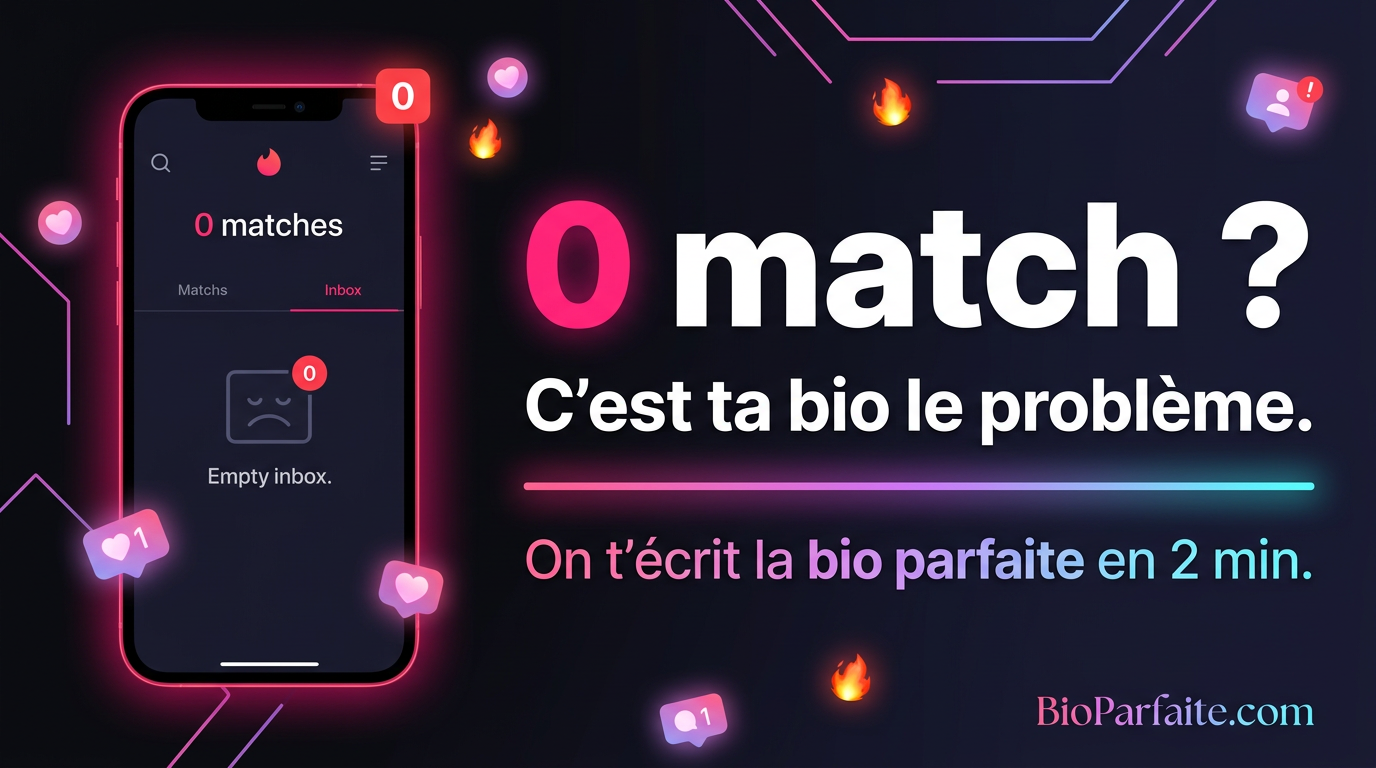
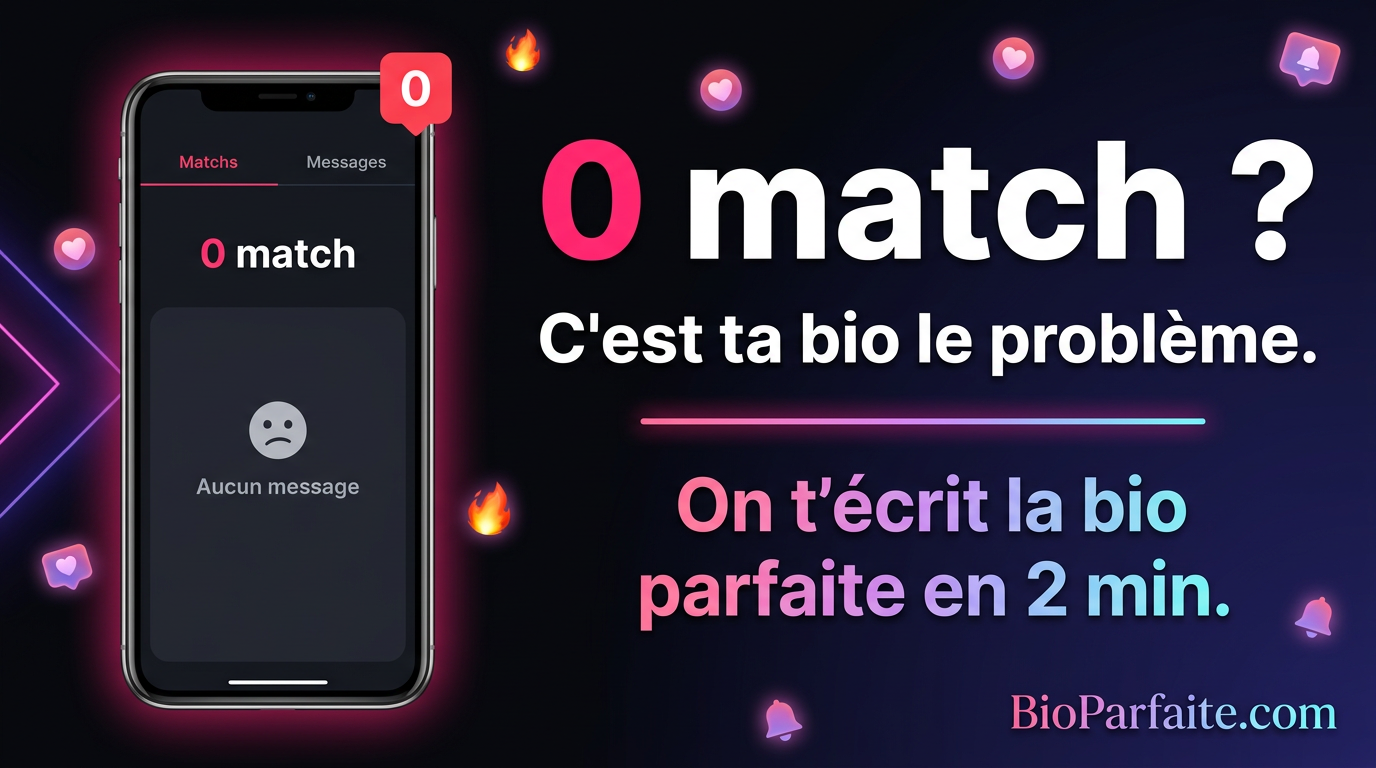
Image OG + messages de partage generalistes (aucune mention d'appli specifique)
Made-with: Cursor

diff --git a/merci.html b/merci.html
@@ -155,7 +155,7 @@
                         <div class="w-8 h-8 shrink-0 rounded-full bg-neon-blue/20 flex items-center justify-center text-sm font-bold text-neon-blue">3</div>
                         <div>
                             <p class="text-white font-semibold text-sm">Colle-la sur ton appli</p>
-                            <p class="text-gray-400 text-sm mt-1">Tinder, Bumble, Hinge, Happn, Fruitz, Badoo... Ta nouvelle bio va faire la différence.</p>
+                            <p class="text-gray-400 text-sm mt-1">Peu importe ton appli de rencontre, ta nouvelle bio va faire la différence.</p>
                         </div>
                     </div>
                 </div>
@@ -173,12 +173,12 @@
                 <p class="text-gray-500 text-xs mb-4">Le message est déjà écrit, t'as juste à cliquer</p>
                 <div class="grid grid-cols-2 sm:grid-cols-3 gap-2.5 mb-4">
 
-                    <a href="https://wa.me/?text=Hey%20!%20J%27ai%20d%C3%A9couvert%20un%20site%20qui%20cr%C3%A9e%20des%20bios%20Tinder%20sur-mesure%2C%20jette%20un%20coup%20d%27oeil%20%C3%A7a%20pourrait%20t%27int%C3%A9resser%20%F0%9F%91%80%20https%3A%2F%2Fbioparfaite.com" target="_blank" rel="noopener" class="inline-flex items-center justify-center gap-2 px-3 py-2.5 rounded-xl bg-green-600/15 border border-green-500/25 text-green-400 hover:bg-green-600/25 text-xs sm:text-sm font-semibold transition-colors">
+                    <a href="https://wa.me/?text=Hey%20!%20J%27ai%20d%C3%A9couvert%20un%20site%20qui%20cr%C3%A9e%20des%20bios%20de%20rencontre%20sur-mesure%2C%20jette%20un%20coup%20d%27oeil%20%C3%A7a%20pourrait%20t%27int%C3%A9resser%20%F0%9F%91%80%20https%3A%2F%2Fbioparfaite.com" target="_blank" rel="noopener" class="inline-flex items-center justify-center gap-2 px-3 py-2.5 rounded-xl bg-green-600/15 border border-green-500/25 text-green-400 hover:bg-green-600/25 text-xs sm:text-sm font-semibold transition-colors">
                         <svg class="w-4 h-4 shrink-0" fill="currentColor" viewBox="0 0 24 24"><path d="M17.472 14.382c-.297-.149-1.758-.867-2.03-.967-.273-.099-.471-.148-.67.15-.197.297-.767.966-.94 1.164-.173.199-.347.223-.644.075-.297-.15-1.255-.463-2.39-1.475-.883-.788-1.48-1.761-1.653-2.059-.173-.297-.018-.458.13-.606.134-.133.298-.347.446-.52.149-.174.198-.298.298-.497.099-.198.05-.371-.025-.52-.075-.149-.669-1.612-.916-2.207-.242-.579-.487-.5-.669-.51-.173-.008-.371-.01-.57-.01-.198 0-.52.074-.792.372-.272.297-1.04 1.016-1.04 2.479 0 1.462 1.065 2.875 1.213 3.074.149.198 2.096 3.2 5.077 4.487.709.306 1.262.489 1.694.625.712.227 1.36.195 1.871.118.571-.085 1.758-.719 2.006-1.413.248-.694.248-1.289.173-1.413-.074-.124-.272-.198-.57-.347z"/><path d="M12 0C5.373 0 0 5.373 0 12c0 2.625.846 5.059 2.284 7.034L.789 23.492a.5.5 0 00.611.611l4.458-1.495A11.943 11.943 0 0012 24c6.627 0 12-5.373 12-12S18.627 0 12 0zm0 22c-2.344 0-4.507-.793-6.23-2.126l-.356-.292-3.693 1.236 1.236-3.693-.292-.356A9.948 9.948 0 012 12C2 6.477 6.477 2 12 2s10 4.477 10 10-4.477 10-10 10z"/></svg>
                         WhatsApp
                     </a>
 
-                    <a href="https://www.facebook.com/sharer/sharer.php?u=https%3A%2F%2Fbioparfaite.com&quote=J%27ai%20d%C3%A9couvert%20un%20site%20qui%20cr%C3%A9e%20des%20bios%20Tinder%20sur-mesure%2C%20jette%20un%20coup%20d%27oeil%20!" target="_blank" rel="noopener" class="inline-flex items-center justify-center gap-2 px-3 py-2.5 rounded-xl bg-blue-600/15 border border-blue-500/25 text-blue-400 hover:bg-blue-600/25 text-xs sm:text-sm font-semibold transition-colors">
+                    <a href="https://www.facebook.com/sharer/sharer.php?u=https%3A%2F%2Fbioparfaite.com&quote=J%27ai%20d%C3%A9couvert%20un%20site%20qui%20cr%C3%A9e%20des%20bios%20de%20rencontre%20sur-mesure%2C%20jette%20un%20coup%20d%27oeil%20!" target="_blank" rel="noopener" class="inline-flex items-center justify-center gap-2 px-3 py-2.5 rounded-xl bg-blue-600/15 border border-blue-500/25 text-blue-400 hover:bg-blue-600/25 text-xs sm:text-sm font-semibold transition-colors">
                         <svg class="w-4 h-4 shrink-0" fill="currentColor" viewBox="0 0 24 24"><path d="M24 12.073c0-6.627-5.373-12-12-12s-12 5.373-12 12c0 5.99 4.388 10.954 10.125 11.854v-8.385H7.078v-3.47h3.047V9.43c0-3.007 1.792-4.669 4.533-4.669 1.312 0 2.686.235 2.686.235v2.953H15.83c-1.491 0-1.956.925-1.956 1.874v2.25h3.328l-.532 3.47h-2.796v8.385C19.612 23.027 24 18.062 24 12.073z"/></svg>
                         Facebook
                     </a>
@@ -188,22 +188,22 @@
                         Messenger
                     </a>
 
-                    <a href="https://twitter.com/intent/tweet?text=Hey%20!%20J%27ai%20d%C3%A9couvert%20un%20site%20qui%20cr%C3%A9e%20des%20bios%20Tinder%20sur-mesure%2C%20jette%20un%20coup%20d%27oeil%20%F0%9F%91%80&url=https%3A%2F%2Fbioparfaite.com" target="_blank" rel="noopener" class="inline-flex items-center justify-center gap-2 px-3 py-2.5 rounded-xl bg-gray-600/15 border border-gray-500/25 text-gray-300 hover:bg-gray-600/25 text-xs sm:text-sm font-semibold transition-colors">
+                    <a href="https://twitter.com/intent/tweet?text=Hey%20!%20J%27ai%20d%C3%A9couvert%20un%20site%20qui%20cr%C3%A9e%20des%20bios%20de%20rencontre%20sur-mesure%2C%20jette%20un%20coup%20d%27oeil%20%F0%9F%91%80&url=https%3A%2F%2Fbioparfaite.com" target="_blank" rel="noopener" class="inline-flex items-center justify-center gap-2 px-3 py-2.5 rounded-xl bg-gray-600/15 border border-gray-500/25 text-gray-300 hover:bg-gray-600/25 text-xs sm:text-sm font-semibold transition-colors">
                         <svg class="w-4 h-4 shrink-0" fill="currentColor" viewBox="0 0 24 24"><path d="M18.244 2.25h3.308l-7.227 8.26 8.502 11.24H16.17l-5.214-6.817L4.99 21.75H1.68l7.73-8.835L1.254 2.25H8.08l4.713 6.231zm-1.161 17.52h1.833L7.084 4.126H5.117z"/></svg>
                         X (Twitter)
                     </a>
 
-                    <a href="https://t.me/share/url?url=https%3A%2F%2Fbioparfaite.com&text=Hey%20!%20J%27ai%20d%C3%A9couvert%20un%20site%20qui%20cr%C3%A9e%20des%20bios%20Tinder%20sur-mesure%2C%20jette%20un%20coup%20d%27oeil%20%F0%9F%91%80" target="_blank" rel="noopener" class="inline-flex items-center justify-center gap-2 px-3 py-2.5 rounded-xl bg-sky-500/15 border border-sky-400/25 text-sky-400 hover:bg-sky-500/25 text-xs sm:text-sm font-semibold transition-colors">
+                    <a href="https://t.me/share/url?url=https%3A%2F%2Fbioparfaite.com&text=Hey%20!%20J%27ai%20d%C3%A9couvert%20un%20site%20qui%20cr%C3%A9e%20des%20bios%20de%20rencontre%20sur-mesure%2C%20jette%20un%20coup%20d%27oeil%20%F0%9F%91%80" target="_blank" rel="noopener" class="inline-flex items-center justify-center gap-2 px-3 py-2.5 rounded-xl bg-sky-500/15 border border-sky-400/25 text-sky-400 hover:bg-sky-500/25 text-xs sm:text-sm font-semibold transition-colors">
                         <svg class="w-4 h-4 shrink-0" fill="currentColor" viewBox="0 0 24 24"><path d="M11.944 0A12 12 0 0 0 0 12a12 12 0 0 0 12 12 12 12 0 0 0 12-12A12 12 0 0 0 12 0a12 12 0 0 0-.056 0zm4.962 7.224c.1-.002.321.023.465.14a.506.506 0 0 1 .171.325c.016.093.036.306.02.472-.18 1.898-.962 6.502-1.36 8.627-.168.9-.499 1.201-.82 1.23-.696.065-1.225-.46-1.9-.902-1.056-.693-1.653-1.124-2.678-1.8-1.185-.78-.417-1.21.258-1.91.177-.184 3.247-2.977 3.307-3.23.007-.032.014-.15-.056-.212s-.174-.041-.249-.024c-.106.024-1.793 1.14-5.061 3.345-.479.33-.913.49-1.302.48-.428-.008-1.252-.241-1.865-.44-.752-.245-1.349-.374-1.297-.789.027-.216.325-.437.893-.663 3.498-1.524 5.83-2.529 6.998-3.014 3.332-1.386 4.025-1.627 4.476-1.635z"/></svg>
                         Telegram
                     </a>
 
-                    <a href="sms:?body=Hey%20!%20J%27ai%20d%C3%A9couvert%20un%20site%20qui%20cr%C3%A9e%20des%20bios%20Tinder%20sur-mesure%2C%20jette%20un%20coup%20d%27oeil%20%C3%A7a%20pourrait%20t%27int%C3%A9resser%20%F0%9F%91%80%20https%3A%2F%2Fbioparfaite.com" class="inline-flex items-center justify-center gap-2 px-3 py-2.5 rounded-xl bg-emerald-500/15 border border-emerald-400/25 text-emerald-400 hover:bg-emerald-500/25 text-xs sm:text-sm font-semibold transition-colors">
+                    <a href="sms:?body=Hey%20!%20J%27ai%20d%C3%A9couvert%20un%20site%20qui%20cr%C3%A9e%20des%20bios%20de%20rencontre%20sur-mesure%2C%20jette%20un%20coup%20d%27oeil%20%C3%A7a%20pourrait%20t%27int%C3%A9resser%20%F0%9F%91%80%20https%3A%2F%2Fbioparfaite.com" class="inline-flex items-center justify-center gap-2 px-3 py-2.5 rounded-xl bg-emerald-500/15 border border-emerald-400/25 text-emerald-400 hover:bg-emerald-500/25 text-xs sm:text-sm font-semibold transition-colors">
                         <svg class="w-4 h-4 shrink-0" fill="none" viewBox="0 0 24 24" stroke="currentColor" stroke-width="2"><path stroke-linecap="round" stroke-linejoin="round" d="M8 12h.01M12 12h.01M16 12h.01M21 12c0 4.418-4.03 8-9 8a9.863 9.863 0 01-4.255-.949L3 20l1.395-3.72C3.512 15.042 3 13.574 3 12c0-4.418 4.03-8 9-8s9 3.582 9 8z"/></svg>
                         SMS
                     </a>
 
-                    <a href="mailto:?subject=Regarde%20%C3%A7a%20%E2%80%94%20Des%20bios%20Tinder%20sur-mesure&body=Hey%20!%0A%0AJ%27ai%20d%C3%A9couvert%20un%20site%20qui%20cr%C3%A9e%20des%20bios%20Tinder%20sur-mesure%2C%20jette%20un%20coup%20d%27oeil%20%C3%A7a%20pourrait%20t%27int%C3%A9resser%20%F0%9F%91%80%0A%0Ahttps%3A%2F%2Fbioparfaite.com" class="inline-flex items-center justify-center gap-2 px-3 py-2.5 rounded-xl bg-amber-500/15 border border-amber-400/25 text-amber-400 hover:bg-amber-500/25 text-xs sm:text-sm font-semibold transition-colors">
+                    <a href="mailto:?subject=Regarde%20%C3%A7a%20%E2%80%94%20Des%20bios%20de%20rencontre%20sur-mesure&body=Hey%20!%0A%0AJ%27ai%20d%C3%A9couvert%20un%20site%20qui%20cr%C3%A9e%20des%20bios%20de%20rencontre%20sur-mesure%2C%20jette%20un%20coup%20d%27oeil%20%C3%A7a%20pourrait%20t%27int%C3%A9resser%20%F0%9F%91%80%0A%0Ahttps%3A%2F%2Fbioparfaite.com" class="inline-flex items-center justify-center gap-2 px-3 py-2.5 rounded-xl bg-amber-500/15 border border-amber-400/25 text-amber-400 hover:bg-amber-500/25 text-xs sm:text-sm font-semibold transition-colors">
                         <svg class="w-4 h-4 shrink-0" fill="none" viewBox="0 0 24 24" stroke="currentColor" stroke-width="2"><path stroke-linecap="round" stroke-linejoin="round" d="M3 8l7.89 5.26a2 2 0 002.22 0L21 8M5 19h14a2 2 0 002-2V7a2 2 0 00-2-2H5a2 2 0 00-2 2v10a2 2 0 002 2z"/></svg>
                         Email
                     </a>

diff --git a/index.html b/index.html
@@ -25,7 +25,7 @@
     <meta property="og:type" content="website">
     <meta property="og:url" content="https://bioparfaite.com/">
     <meta property="og:title" content="0 match ? C'est ta bio le problème.">
-    <meta property="og:description" content="On t'écrit la bio parfaite en 2 min. 5 bios uniques + 10 phrases d'accroche sur-mesure pour Tinder, Bumble, Hinge, Happn, Fruitz et Badoo.">
+    <meta property="og:description" content="On t'écrit la bio parfaite en 2 min. 5 bios uniques + 10 phrases d'accroche sur-mesure pour tes applis de rencontre.">
     <meta property="og:site_name" content="BioParfaite">
     <meta property="og:locale" content="fr_FR">
     <meta property="og:image" content="https://bioparfaite.com/og-bioparfaite-share.png">
@@ -33,7 +33,7 @@
     <meta property="og:image:height" content="630">
     <meta name="twitter:card" content="summary_large_image">
     <meta name="twitter:title" content="0 match ? C'est ta bio le problème.">
-    <meta name="twitter:description" content="On t'écrit la bio parfaite en 2 min. 5 bios + 10 phrases d'accroche pour Tinder, Bumble, Hinge.">
+    <meta name="twitter:description" content="On t'écrit la bio parfaite en 2 min. 5 bios + 10 phrases d'accroche pour tes applis de rencontre.">
     <meta name="twitter:image" content="https://bioparfaite.com/og-bioparfaite-share.png">
     <meta name="theme-color" content="#0a0a0f">
     <meta name="author" content="BioParfaite">
